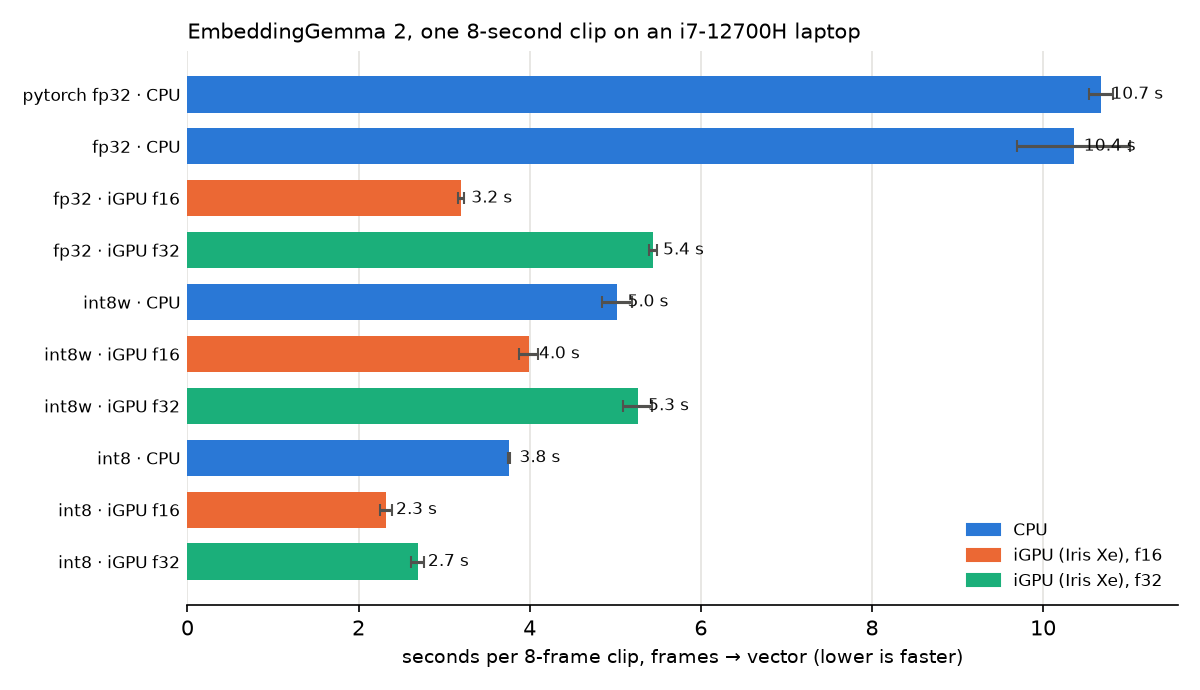
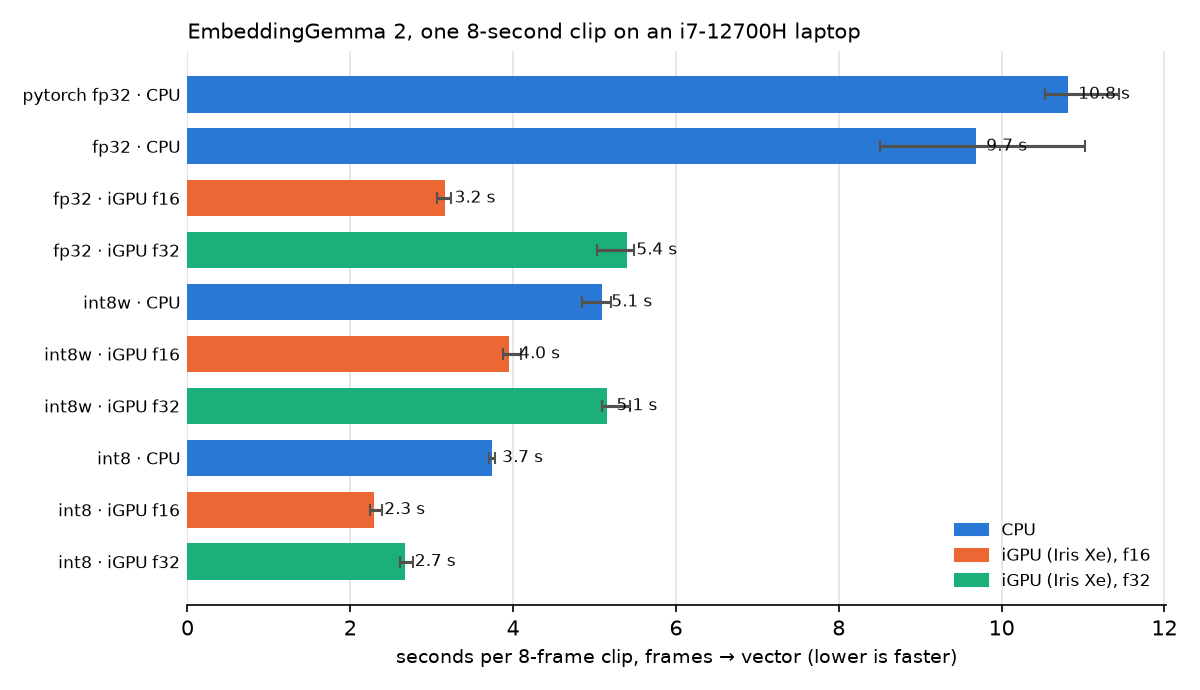
EmbeddingGemma 2 benchmark session 3: int8 on iGPU f16 2.25-2.39 s per 8-frame clip over 3 sessions; search quality identical in every config

diff --git a/embeddinggemma-2-video-search/output/benchmark.md b/embeddinggemma-2-video-search/output/benchmark.md
@@ -1,19 +1,19 @@
 # EmbeddingGemma 2 on a laptop: latency and quality
 
-2 session(s). Latency in ms, median of 10 timed runs after 3 warm-ups, on one 8-frame 640x360 clip (1 fps); with several sessions, the median across sessions and the min–max.
+3 session(s). Latency in ms, median of 10 timed runs after 3 warm-ups, on one 8-frame 640x360 clip (1 fps); with several sessions, the median across sessions and the min–max.
 
 | Model | Device | Vision, 8 frames/call | Vision, 1 frame/call | Encoder, 1 clip/call | Encoder, 4 clips/call (per clip) | Text query | Clip, frames → vector |
 |---|---|---|---|---|---|---|---|
-| pytorch fp32 | CPU | – | – | – | – | 56 (53–59) | 10,677 (10,534–10,819) |
-| fp32 | CPU | 9,716 (9,599–9,832) | 8,433 (7,435–9,432) | 1,080 (1,006–1,155) | 905 (803–1,008) | 54 (53–54) | 10,355 (9,691–11,020) |
-| fp32 | iGPU f16 | 2,795 (2,735–2,855) | 3,297 (3,137–3,457) | 292 (285–298) | 284 (276–291) | 29 (29–29) | 3,198 (3,161–3,234) |
-| fp32 | iGPU f32 | 5,095 (5,060–5,130) | 4,802 (4,736–4,867) | 400 (378–422) | 426 (419–434) | 40 (36–44) | 5,438 (5,393–5,483) |
-| int8w | CPU | 5,089 (4,576–5,603) | 4,242 (4,170–4,314) | 595 (535–656) | 538 (525–551) | 26 (23–28) | 5,024 (4,848–5,200) |
-| int8w | iGPU f16 | 3,710 (3,586–3,834) | 3,625 (3,602–3,647) | 302 (293–310) | 293 (291–295) | 36 (35–36) | 3,988 (3,874–4,102) |
-| int8w | iGPU f32 | 4,762 (4,665–4,858) | 4,581 (4,580–4,582) | 428 (417–439) | 430 (426–434) | 41 (39–44) | 5,263 (5,096–5,431) |
-| int8 | CPU | 3,254 (3,223–3,286) | 3,092 (3,090–3,095) | 412 (405–420) | 426 (425–427) | 19 (18–19) | 3,760 (3,745–3,775) |
-| int8 | iGPU f16 | 2,073 (2,010–2,136) | 2,033 (1,993–2,073) | 230 (222–238) | 200 (200–200) | 24 (24–25) | 2,318 (2,248–2,388) |
-| int8 | iGPU f32 | 2,505 (2,359–2,650) | 2,401 (2,334–2,468) | 264 (233–296) | 244 (227–260) | 22 (22–23) | 2,691 (2,611–2,770) |
+| pytorch fp32 | CPU | – | – | – | – | 53 (51–59) | 10,819 (10,534–11,443) |
+| fp32 | CPU | 9,599 (7,720–9,832) | 7,519 (7,435–9,432) | 1,006 (924–1,155) | 810 (803–1,008) | 53 (52–54) | 9,691 (8,506–11,020) |
+| fp32 | iGPU f16 | 2,765 (2,735–2,855) | 3,137 (3,132–3,457) | 287 (285–298) | 276 (270–291) | 29 (29–29) | 3,161 (3,069–3,234) |
+| fp32 | iGPU f32 | 5,060 (4,625–5,130) | 4,736 (4,534–4,867) | 380 (378–422) | 419 (393–434) | 36 (35–44) | 5,393 (5,026–5,483) |
+| int8w | CPU | 4,576 (4,523–5,603) | 4,313 (4,170–4,314) | 535 (528–656) | 541 (525–551) | 23 (23–28) | 5,087 (4,848–5,200) |
+| int8w | iGPU f16 | 3,614 (3,586–3,834) | 3,647 (3,602–3,679) | 305 (293–310) | 291 (290–295) | 35 (35–36) | 3,954 (3,874–4,102) |
+| int8w | iGPU f32 | 4,709 (4,665–4,858) | 4,582 (4,580–4,707) | 420 (417–439) | 434 (426–435) | 39 (39–44) | 5,150 (5,096–5,431) |
+| int8 | CPU | 3,251 (3,223–3,286) | 3,095 (3,090–3,099) | 405 (404–420) | 425 (422–427) | 19 (18–19) | 3,745 (3,703–3,775) |
+| int8 | iGPU f16 | 2,060 (2,010–2,136) | 2,011 (1,993–2,073) | 232 (222–238) | 200 (200–203) | 24 (24–25) | 2,298 (2,248–2,388) |
+| int8 | iGPU f32 | 2,403 (2,359–2,650) | 2,393 (2,334–2,468) | 248 (233–296) | 233 (227–260) | 22 (22–23) | 2,672 (2,611–2,770) |
 
 Quality, latest session: 43 clips, 23 queries. (Session 1 ran before the padding fix, see ov_model.py.)
 
